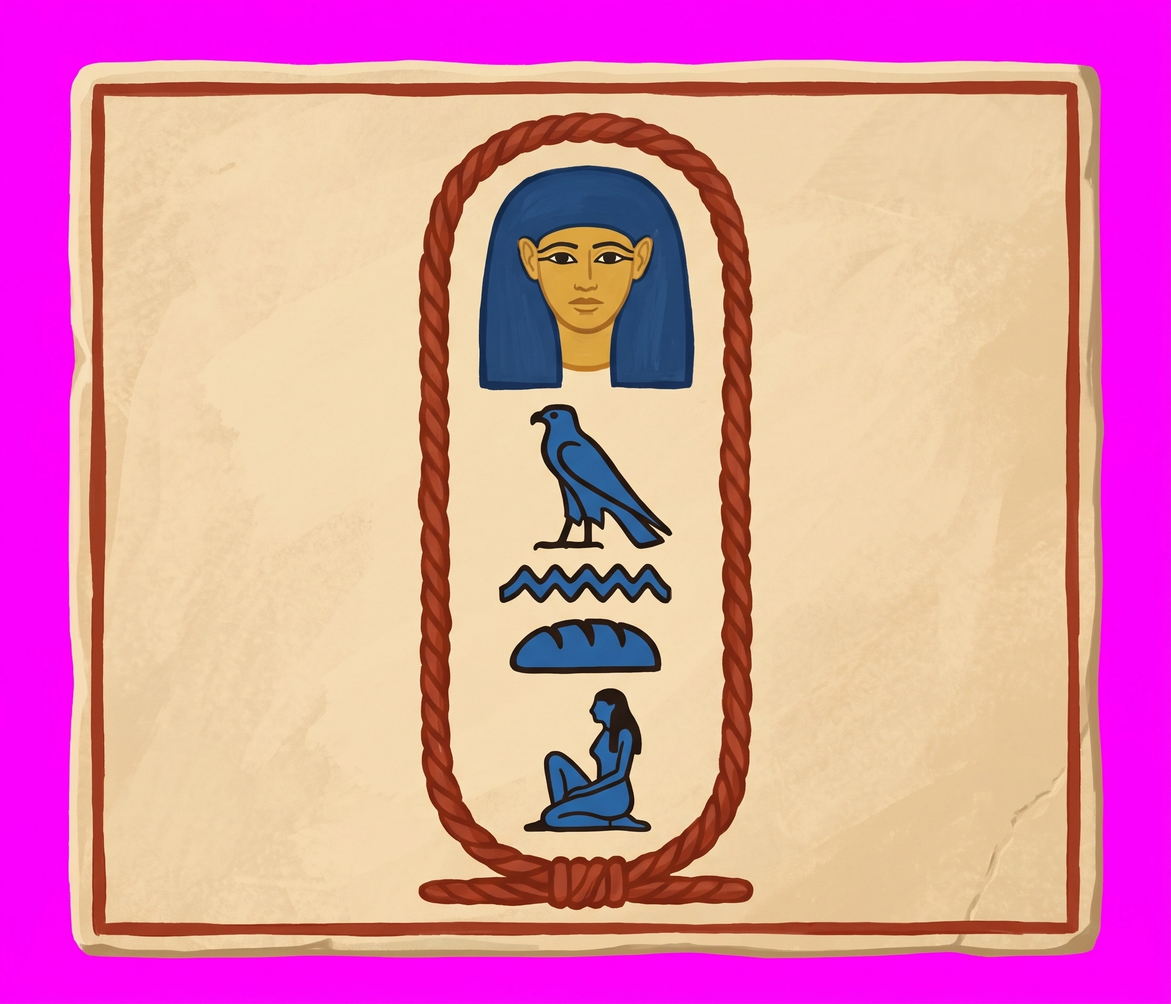
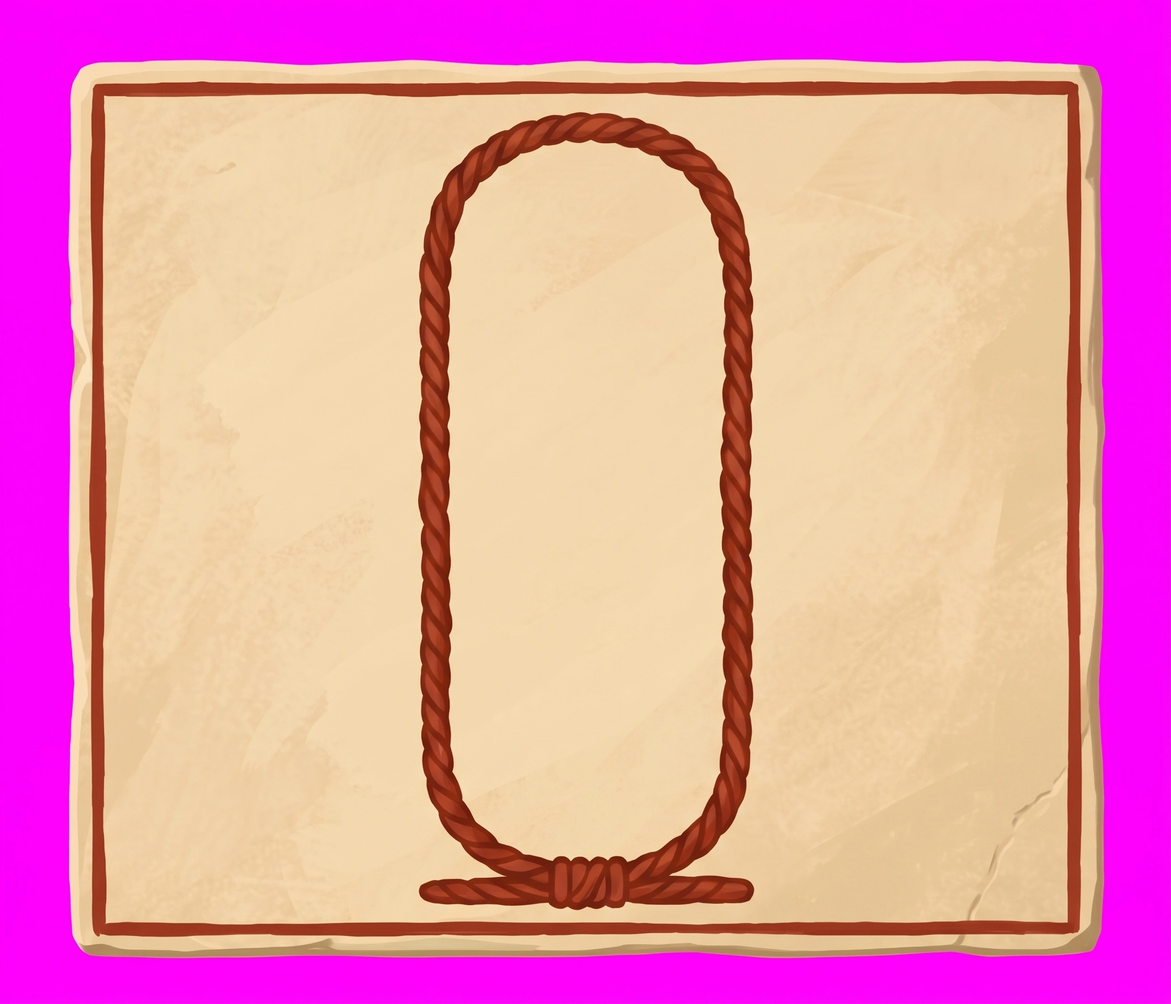
art: Henut's name panel, an empty cartouche
Claude-Session: https://claude.ai/code/session_01F6g2diRzQCzQwEf9zsEEGH

diff --git a/docs/instructions/repaint-queue.md b/docs/instructions/repaint-queue.md
@@ -483,7 +483,7 @@ Even lighting left to right, no hotspot, no vignette.
 
 ---
 
-## Nobleman — one
+## Nobleman — none
 
 The nobleman's existing props, repainted for the rank's new light orange floor. Each is its own thing
 first: cedar is cedar, linen is linen, pottery is pottery, painted in red ochre, Egyptian blue and leaf
@@ -511,32 +511,6 @@ The last nine are the house's own kinds, new with its activities ([themed-rooms.
 § Junior): each has a primitive of its own in `renderProp.py` and a guarded block in `art/rebuild.sh`. The
 banquet table and the bed are two cells across, so their frame is landscape three by two; the harp and the
 potted tree stand a cell taller, so theirs is portrait two by five.
-
-### `junior/namePanel` — Henut's name panel, an empty cartouche
-
-**Re-roll:** the first roll painted her name already put right, which gives the wall's puzzle away. The panel is the plate the reading screen writes the signs into, so the cartouche is EMPTY.
-
-**New:** the centrepiece of Henut's wall (`henutWall.room`), where the player reads her name and puts its sign right. It hangs alone on the north wall, so it has to read as A NAME at map scale: one big cartouche, a few large signs, nothing busy.
-
-**Attach:**
-
-1. `~/tile-previews/namePanel-junior-previous.png` — the first roll, repainted over: keep its slab, border and cartouche exactly
-2. `~/tile-previews/junior-plain.png` — the material reference
-
-```
-A single flat object, painted in flat matte gouache, on pure magenta #FF00FF. Nearly square, exactly seven units wide by six tall. Do not re-compose it into a landscape strip. ONE OBJECT, AND IT FILLS THE FRAME, reaching the left and right edges. The magenta fills the frame around it to its edges: there is no wall, no floor and no surface behind the object. Seen straight on, flat, no perspective.
-
-The object: a NAME PANEL, a flat rectangular slab of dressed limestone, plastered smooth, with a narrow
-red ochre #8a3a2a border.
-
-The plaster is a warm cream #e8d8b8, clean and fresh. Filling most of it, standing upright, is one large
-CARTOUCHE: a long rounded oval of knotted rope, painted thick in red ochre #8a3a2a, with the tied bar across
-its foot. INSIDE THE CARTOUCHE IS EMPTY: plain cream plaster #e8d8b8, no signs, no face, no marks at all. Keep the slab, its red ochre border and the rope cartouche exactly as in the attached painting; remove only what is inside the oval. No writing anywhere on the panel.
-
-No highlights, no gloss, no rim light, no ground plane, no reflections. Matte throughout, evenly lit, crisp and clean. Nobleman's house: orange sandstone, painted plaster, cedar, linen, reed and pottery, each in its OWN colours so it reads at a glance as what it is. Copper is an accent only — a rim, a band, a hasp, gone verdigris green at the edges — never a tint over the whole object.
-```
-
-**Import:** `yarn import-tile art/masters/props/junior/namePanel.webp --tier=junior --name=namePanel --slot=wall --tall --filter=smooth`
 
 ## Priest — fifteen
 
